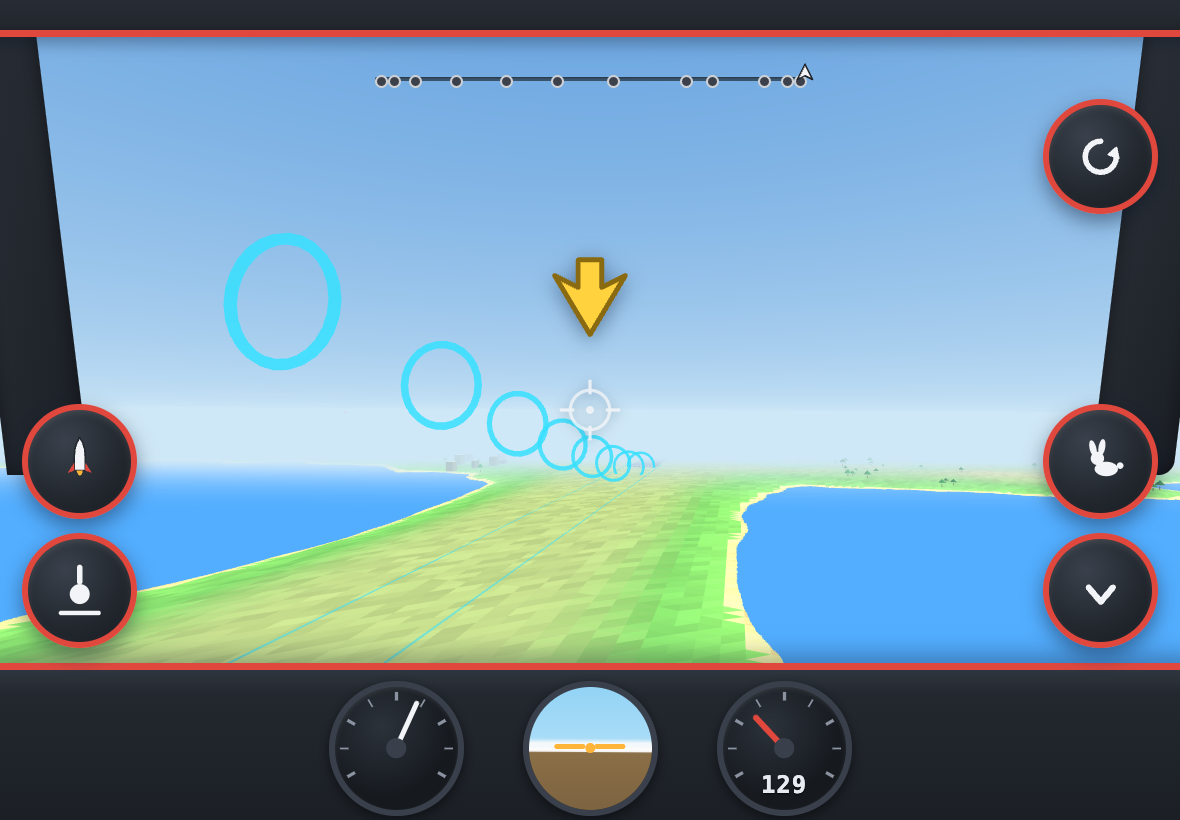
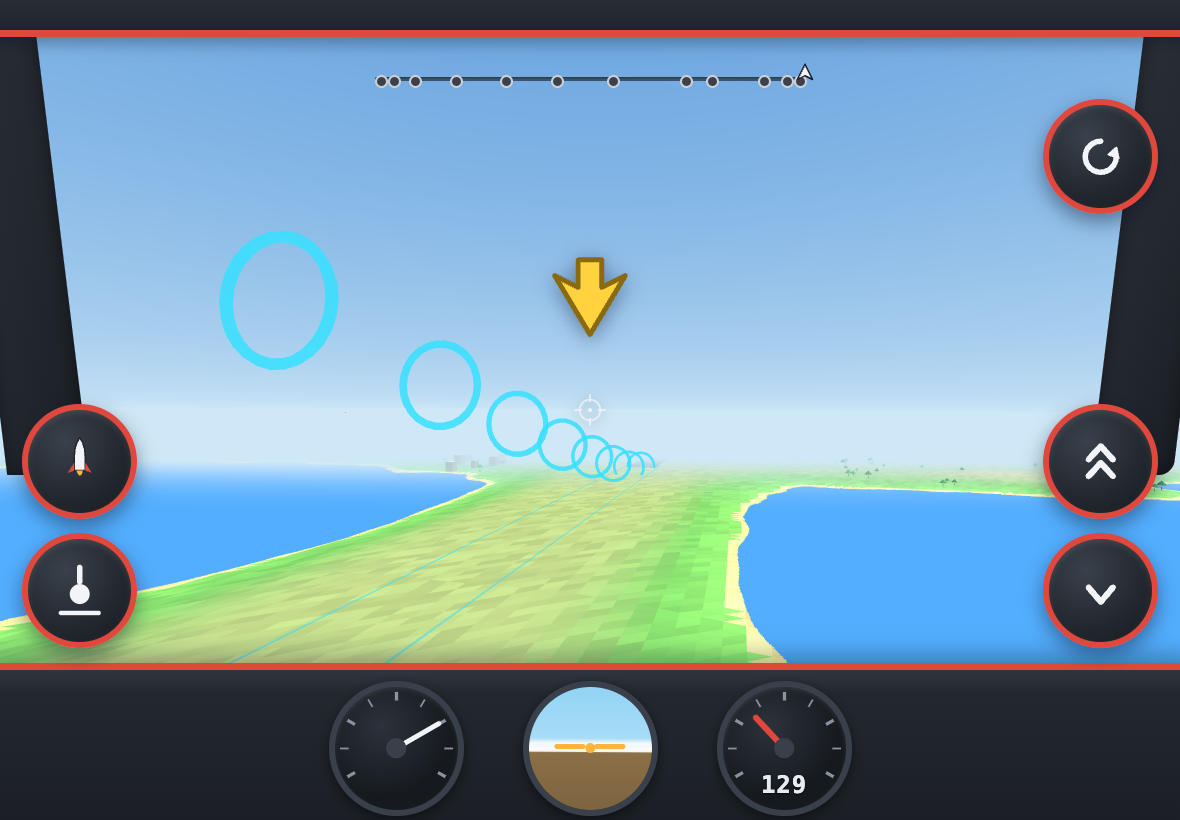
Fighter jet + landing-mode throttle + missile fixes
- Fighter: 95 cruise, 22 deg/s turn (most agile), gear, gunmetal/red
  livery, picker card + 3D model with afterburner flame
- Speed controls now work during engaged landing approach (set speed
  respected with minFlyingSpeed floor); skip-to-landing pre-selects
  approach speed step
- Missiles: sub-stepped collision (no tunneling through thin
  structures), visible self-destruct pop at end of range
- Fast icon swapped to double-up-chevron per feedback
- Harness -> 79/79; SW v13

diff --git a/cockpit/index.html b/cockpit/index.html
@@ -333,8 +333,8 @@
   }
   #aimMarker.on { display: block; }
   #aimMarker svg {
-    width: clamp(40px, 8vmin, 68px);
-    height: clamp(40px, 8vmin, 68px);
+    width: clamp(24px, 4.2vmin, 38px);
+    height: clamp(24px, 4.2vmin, 38px);
     translate: -50% -50%;
     display: block;
     opacity: 0.85;
@@ -470,11 +470,8 @@
 </button>
 <button id="fastBtn" class="roundBtn" aria-hidden="true">
   <svg viewBox="0 0 100 100" xmlns="http://www.w3.org/2000/svg">
-    <ellipse cx="36" cy="26" rx="6" ry="15" fill="#f2f4f7" transform="rotate(-14 36 26)"/>
-    <ellipse cx="52" cy="24" rx="6" ry="15" fill="#f2f4f7" transform="rotate(10 52 24)"/>
-    <circle cx="44" cy="44" r="12" fill="#f2f4f7"/>
-    <ellipse cx="60" cy="63" rx="21" ry="13" fill="#f2f4f7"/>
-    <circle cx="85" cy="57" r="6" fill="#f2f4f7"/>
+    <path d="M28 46 L50 22 L72 46" fill="none" stroke="#f2f4f7" stroke-width="11" stroke-linecap="round" stroke-linejoin="round"/>
+    <path d="M28 76 L50 52 L72 76" fill="none" stroke="#f2f4f7" stroke-width="11" stroke-linecap="round" stroke-linejoin="round"/>
   </svg>
 </button>
 <button id="missileBtn" class="roundBtn" aria-hidden="true">
@@ -594,6 +591,16 @@
       <path d="M96 20 L116 20 L110 34 L94 34 Z" fill="#d71920" stroke="#23282f" stroke-width="4" stroke-linejoin="round"/>
       <path d="M70 76 L104 96 L124 96 L96 74 Z" fill="#c9a227" stroke="#23282f" stroke-width="4" stroke-linejoin="round"/>
       <path d="M60 58 L96 44 L112 46 L82 58 Z" fill="#d71920" opacity=".85" stroke="#23282f" stroke-width="4" stroke-linejoin="round"/>
+    </svg>
+  </button>
+  <button class="card vehCard" data-v="fighter">
+    <svg viewBox="0 0 200 120">
+      <path d="M18 62 Q50 56 96 58 L120 60 Q140 63 142 68 L118 74 L60 76 Q32 74 18 62 Z" fill="#6b7280" stroke="#23282f" stroke-width="5" stroke-linejoin="round"/>
+      <path d="M96 58 L58 26 L74 24 L108 56 Z" fill="#6b7280" stroke="#23282f" stroke-width="5" stroke-linejoin="round"/>
+      <path d="M96 58 L58 90 L74 92 L108 62 Z" fill="#565f6b" stroke="#23282f" stroke-width="5" stroke-linejoin="round"/>
+      <path d="M118 60 L134 30 L146 32 L134 62 Z" fill="#e0483e" stroke="#23282f" stroke-width="5" stroke-linejoin="round"/>
+      <path d="M60 76 L84 96 L98 96 L78 74 Z" fill="#dfe8f2" stroke="#23282f" stroke-width="4" stroke-linejoin="round"/>
+      <circle cx="112" cy="63" r="7" fill="#bfeaff" stroke="#23282f" stroke-width="4"/>
     </svg>
   </button>
 </div>
@@ -745,6 +752,7 @@ const TUNE = {
 
   glideSlope: 0.085,
   glideBand: 9,
+  minFlyingSpeed: 18,
   skipOutDistance: 1450,
   aimMarkerDistance: 320,
 
@@ -775,7 +783,8 @@ const TUNE = {
     rocket:           { cruiseSpeed: 112, turnRateDeg: 8, pitchLimitDeg: 48, bankLimitDeg: 40, accel: 26, hoverSpeed: 0, capped: false, size: 1.1, hasGear: false, hidden: true },
     airlinerDelta:    { cruiseSpeed: 54, turnRateDeg: 9, pitchLimitDeg: 25, bankLimitDeg: 38, accel: 12, hoverSpeed: 0, capped: true, size: 1.85, hasGear: true },
     airlinerJetblue:  { cruiseSpeed: 54, turnRateDeg: 9, pitchLimitDeg: 25, bankLimitDeg: 38, accel: 12, hoverSpeed: 0, capped: true, size: 1.85, hasGear: true },
-    airlinerEmirates: { cruiseSpeed: 54, turnRateDeg: 9, pitchLimitDeg: 25, bankLimitDeg: 38, accel: 12, hoverSpeed: 0, capped: true, size: 1.85, hasGear: true }
+    airlinerEmirates: { cruiseSpeed: 54, turnRateDeg: 9, pitchLimitDeg: 25, bankLimitDeg: 38, accel: 12, hoverSpeed: 0, capped: true, size: 1.85, hasGear: true },
+    fighter:          { cruiseSpeed: 95, turnRateDeg: 22, pitchLimitDeg: 38, bankLimitDeg: 50, accel: 22, hoverSpeed: 0, capped: true, size: 1.25, hasGear: true }
   },
 
   vehicleColors: {
@@ -784,7 +793,8 @@ const TUNE = {
     rocket:           ["#b8bec9", "#d71920"],
     airlinerDelta:    ["#0b4ea2", "#d0342c"],
     airlinerJetblue:  ["#1c75bc", "#e8edf4"],
-    airlinerEmirates: ["#c9a227", "#d71920"]
+    airlinerEmirates: ["#c9a227", "#d71920"],
+    fighter:          ["#6b7280", "#e0483e"]
   }
 };
 
@@ -1692,26 +1702,32 @@ function updateMissiles(dt) {
   for (const m of missiles) {
     if (!m.alive) continue;
     m.life -= dt;
-    m.x += m.vx * dt;
-    m.y += m.vy * dt;
-    m.z += m.vz * dt;
+
+    const speed = Math.hypot(m.vx, m.vy, m.vz);
+    const sub = Math.min(6, Math.max(1, Math.ceil((speed * dt) / 2)));
+    const sdt = dt / sub;
     let boomed = false;
+    let hitX = m.x, hitY = m.y, hitZ = m.z;
 
-    if (m.y <= Math.max(terrainEff(m.x, m.z), TUNE.waterLevel)) boomed = true;
+    for (let st = 0; st < sub && !boomed; st++) {
+      m.x += m.vx * sdt;
+      m.y += m.vy * sdt;
+      m.z += m.vz * sdt;
+      hitX = m.x; hitY = m.y; hitZ = m.z;
 
-    if (!boomed) {
+      if (m.y <= Math.max(terrainEff(m.x, m.z), TUNE.waterLevel)) { boomed = true; break; }
+
       forEachSolid(b => {
         if (boomed) return;
-        if (m.x > b.x - b.hw && m.x < b.x + b.hw &&
-            m.z > b.z - b.hd && m.z < b.z + b.hd &&
-            m.y > b.y0 - 1 && m.y < b.y1 + 1) {
+        if (m.x > b.x - b.hw - 1 && m.x < b.x + b.hw + 1 &&
+            m.z > b.z - b.hd - 1 && m.z < b.z + b.hd + 1 &&
+            m.y > b.y0 - 1.5 && m.y < b.y1 + 1.5) {
           boomed = true;
           shatterAround(m.x, m.y, m.z);
         }
       });
-    }
+      if (boomed) break;
 
-    if (!boomed) {
       for (const t of traffic) {
         if (!t.alive) continue;
         const dx = t.x - m.x, dy = t.y - m.y, dz = t.z - m.z;
@@ -1726,12 +1742,15 @@ function updateMissiles(dt) {
       }
     }
 
-    if (boomed || m.life <= 0) {
+    const expired = m.life <= 0;
+    if (boomed || expired || m.life <= 0) {
       m.alive = false;
       m.mesh.visible = false;
       if (boomed) {
-        triggerExplosion(m.x, m.y, m.z, 0.8);
+        triggerExplosion(hitX, hitY, hitZ, 0.8);
         flags.missileHits++;
+      } else if (expired) {
+        triggerExplosion(m.x, m.y, m.z, 0.35);
       }
     } else {
       m.mesh.position.set(m.x, m.y, m.z);
@@ -2406,6 +2425,28 @@ function buildVehicleModel(key) {
     flame.position.z = 5.2;
     g.add(flame);
     g.userData.flame = flame;
+  } else if (key === "fighter") {
+    const fus = add(new THREE.CylinderGeometry(0.75, 0.55, 11, 10), mA, 0, 0, 0, Math.PI / 2);
+    void fus;
+    const nose = new THREE.Mesh(new THREE.ConeGeometry(0.75, 3.4, 10), mA);
+    nose.rotation.x = -Math.PI / 2;
+    nose.position.z = -6.8;
+    g.add(nose);
+    for (const sx of [-3.2, 3.2]) {
+      const wing = add(new THREE.BoxGeometry(4.6, 0.14, 2.6), mA, sx, -0.2, 0.6);
+      wing.rotation.y = sx > 0 ? -0.55 : 0.55;
+    }
+    const tail = add(new THREE.BoxGeometry(0.14, 2.6, 1.6), mB, 0, 1.4, 4.6);
+    void tail;
+    for (const sx of [-1.6, 1.6]) {
+      add(new THREE.BoxGeometry(2.4, 0.12, 1.2), mA, sx, 0.2, 4.8);
+    }
+    add(new THREE.SphereGeometry(0.55, 10, 8), glassM, 0, 0.55, -3.6);
+    const flame = new THREE.Mesh(new THREE.ConeGeometry(0.5, 2.2, 8), new THREE.MeshBasicMaterial({ color: 0xffb43a }));
+    flame.rotation.x = -Math.PI / 2;
+    flame.position.z = 6.6;
+    g.add(flame);
+    g.userData.flame = flame;
   } else if (key.startsWith("airliner")) {
     const fus = add(new THREE.CylinderGeometry(1.05, 1.05, 13.4, 12), mA, 0, 0, 0, Math.PI / 2);
     void fus;
@@ -2753,6 +2794,7 @@ function skipToLanding() {
     gearSound(true);
     flags.gear++;
   }
+  state.speedStep = 1;
   state.phase = "AIRBORNE";
   placeRings();
   unlockAudio();
@@ -3064,7 +3106,7 @@ function update(dt) {
       const hover = state.vp.hoverSpeed > 0 && !state.touching;
       let targetSpeed = state.vp.cruiseSpeed * TUNE.speedSteps[state.speedStep];
       if (hover) targetSpeed = state.vp.hoverSpeed;
-      else if (state.engaged) targetSpeed = Math.min(targetSpeed, TUNE.approachSpeed);
+      else if (state.engaged) targetSpeed = Math.max(targetSpeed, TUNE.minFlyingSpeed);
       state.speed += (targetSpeed - state.speed) * Math.min(1, (hover ? 0.5 : TUNE.autoThrottleResponse * 1.6) * dt);
     }
 

diff --git a/scripts/headless_test.js b/scripts/headless_test.js
@@ -260,22 +260,22 @@ function check(name, ok, extra) {
       sv.classList.remove("hiddenS");
       const visible = [...sv.querySelectorAll(".card:not(.hiddenS)")];
       const hidden = [...sv.querySelectorAll(".card.hiddenS")];
-      if (visible.length !== 4) return { ok: false, why: "visible=" + visible.length };
+      if (visible.length !== 5) return { ok: false, why: "visible=" + visible.length };
       const sized = visible.every(c => {
         const r = c.getBoundingClientRect();
         return r.width >= 100 && r.height >= 100;
       });
       const keys = visible.map(c => c.dataset.v);
-      return { ok: sized && hidden.length === 2 && !keys.includes("helicopter") && !keys.includes("rocket"), why: keys.join(",") };
+      return { ok: sized && hidden.length === 2 && keys.includes("fighter") && !keys.includes("helicopter") && !keys.includes("rocket"), why: keys.join(",") };
     });
-    check("vehicles: picker shows 4 (heli+rocket shelved), cards >= 100px", bootOk.ok, bootOk.why);
+    check("vehicles: picker shows 5 incl fighter (heli+rocket shelved), cards >= 100px", bootOk.ok, bootOk.why);
 
     const combos = await page.evaluate(() => {
       const vs = Object.values(window.__lp.TUNE.vehicles).filter(v => !v.hidden);
       return { n: vs.length, uniq: new Set(vs.map(v => v.cruiseSpeed + "|" + v.turnRateDeg + "|" + v.pitchLimitDeg)).size };
     });
-    check("vehicles: four available, airliners share stats by design",
-      combos.n === 4 && combos.uniq === 2, `n=${combos.n} uniq=${combos.uniq}`);
+    check("vehicles: five available, fighter distinct, airliners share stats",
+      combos.n === 5 && combos.uniq === 3, `n=${combos.n} uniq=${combos.uniq}`);
 
     const vpBefore = await page.evaluate(() => window.__lp.state.vp.cruiseSpeed);
     await page.evaluate(() => {
@@ -727,6 +727,20 @@ function check(name, ok, extra) {
       if (!guideSeen) await pump(page, 0.5);
     }
     check("guidance: glide arrow appears on approach", guideSeen);
+
+    // speed controls work during engaged approach
+    const spEngaged = await page.evaluate(() => window.__lp.state.speed);
+    await page.click("#slowBtn");
+    await pump(page, 2);
+    const spSlower = await page.evaluate(() => window.__lp.state.speed);
+    check("throttle: slow works during landing approach", spSlower < spEngaged - 2,
+      `${spEngaged.toFixed(0)} -> ${spSlower.toFixed(0)}`);
+    await page.click("#fastBtn");
+    await pump(page, 2);
+    const spFaster = await page.evaluate(() => window.__lp.state.speed);
+    check("throttle: fast works during landing approach", spFaster > spSlower + 2,
+      `${spSlower.toFixed(0)} -> ${spFaster.toFixed(0)}`);
+    await page.evaluate(() => window.__lp.api.clearStick());
     await page.evaluate(() => { window.__lp.api.clearStick(); window.__lp.api.setThrottle(false); });
     await page.close();
   }

diff --git a/cockpit/sw.js b/cockpit/sw.js
@@ -1,4 +1,4 @@
-const CACHE_NAME = "little-pilot-cockpit-v9";
+const CACHE_NAME = "little-pilot-cockpit-v13";
 const ASSETS = [
   "./",
   "./index.html",

diff --git a/README.md b/README.md
@@ -47,9 +47,9 @@ qa-screenshots/      harness-generated screen captures
 | Yellow flashing arrow | Appears once rotation speed is reached (latched -- releasing throttle to free his finger doesn't lose it). Drag up past threshold to lift off |
 | Circle-arrow button, top-right | Toggle cockpit view <-> third-person chase cam. Chase keeps the dials visible; only the window frame hides |
 | Gear button, bottom-left (planes only) | Retract / extend landing gear -- distinct up (grey wheel + red slash) and down (white wheel + ground line) icons, whirr/clunk sounds, animated struts in chase view. **Landing with gear up explodes** |
-| Turtle button, bottom-right (airborne) | Tap: step the set speed DOWN one notch. Speed stays where he sets it -- no snap-back |
-| Rabbit button, above it (airborne) | Tap: step the set speed UP one notch. Four steps total (`TUNE.speedSteps`); approach assists still cap speed on final |
-| Missile button, bottom-left above gear (airborne) | Fire a wing missile -- explodes on impact with terrain, structures, or traffic planes (cooldown `missileCooldown`) |
+| Double-down-chevron button, bottom-right (airborne) | Tap: step the set speed DOWN one notch. Speed stays where he sets it -- no snap-back |
+| Double-up-chevron button, above it (airborne) | Tap: step the set speed UP one notch. Four steps total (`TUNE.speedSteps`); approach floor still prevents crawling on final |
+| Missile button, bottom-left above gear (airborne) | Fire a wing missile -- explodes on impact with terrain, structures, or traffic planes (cooldown `missileCooldown`). Sub-stepped collision detection means no tunneling; at end of range it self-destructs with a visible pop |
 | Runway button, top-left (airborne, off-approach) | Skip to landing: places the plane aligned on the glide slope `skipOutDistance` from the destination, gear auto-extends, ~45-60 s out |
 | Crosshair, center screen (airborne) | Flight-path marker -- shows exactly where the plane is aimed, including climb/dive; doubles as the missile aiming point. Clamps to the screen edge when the aim is off-view |
 | White pointer arrow at screen edge | Points along the horizontal bearing of the destination airport; hides within `homeIndicatorDistance` or whenever approach assists engage |
@@ -121,11 +121,11 @@ continent -- landmarks and zones derive from route fractions, nothing needs rebu
 ## Testing
 
 `scripts/headless_test.js` drives the real game in headless Chromium (SwiftShader WebGL)
-through 77 checks: HUD layout in both orientations, zero-text DOM audit, takeoff
+through 79 checks: HUD layout in both orientations, zero-text DOM audit, takeoff
 (with and without input), sloppy-approach landings, go-around, deliberate repeatable
 crashes, shallow-skim-bounces, all six vehicles, full route both directions timed
 150–290 s, rocket round-trip to space, non-rocket ceiling, solid-wall shatter,
-view toggle, gear cycle (up/down icons), persistent speed stepper (set-and-stays), aim crosshair, glide-guidance arrow, chase-cam ground alignment, missile firing + shootdowns + ground impact, traffic presence + mid-air collision, skip-to-landing end-to-end, strip behavior, SW reachability, software-GL FPS smoke.
+view toggle, gear cycle (up/down icons), persistent speed stepper (set-and-stays), aim crosshair, glide-guidance arrow, chase-cam ground alignment, missile firing + shootdowns + ground impact + no-tunneling, traffic presence + mid-air collision, skip-to-landing end-to-end, strip behavior, SW reachability, software-GL FPS smoke.
 
 ```
 npm i playwright-core        # once, any node_modules location
